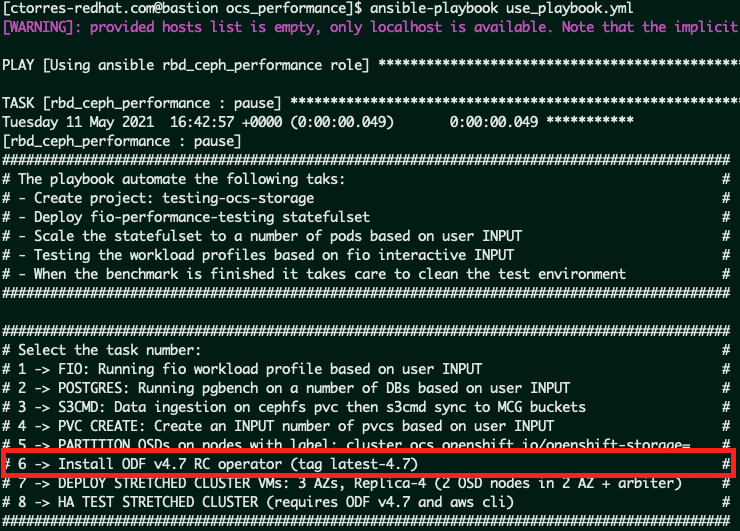
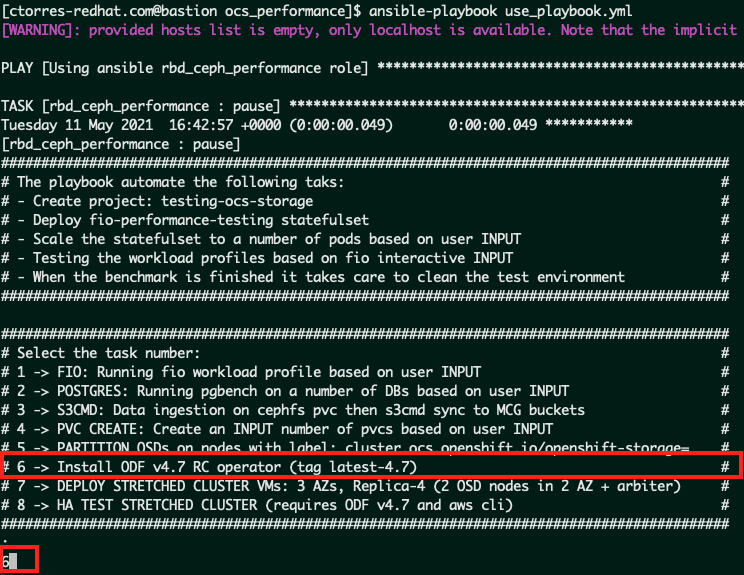
added odf v4.7 deployment

diff --git a/README.md b/README.md
@@ -52,8 +52,8 @@ watch oc get nodes
 - Install the ODF v4.7 Operator from template `roles/rbd_ceph_performance/templates/odfv47.yml`
 - If everything has been completed successfully you will see that the OCS Operator version 4.7 will be available 
 ![OCS v4.7](https://github.com/ctorres80/ocs_performance/blob/master/roles/rbd_ceph_performance/files/4.png)
-
-
+  
+  
 `# 7 -> DEPLOY STRETCHED CLUSTER VMs: 3 AZs, Replica-4 (2 OSD nodes in 2 AZ + arbiter)     #`
 ![OCS v4.7](https://github.com/ctorres80/ocs_performance/blob/master/roles/rbd_ceph_performance/files/5.png)
 Please check that you're in this condition before start:    
@@ -66,7 +66,6 @@ cluster-c1f4-kpw7v-worker-eu-west-1a   1         1         1       1           8
 cluster-c1f4-kpw7v-worker-eu-west-1b   1         1         1       1           8d
 cluster-c1f4-kpw7v-worker-eu-west-1c   1         1         1       1           8d
 ```
-Select the option #7  
 The tasks will take cluster configuration and automatically create the yaml for ocs machinesets. The final result will be 3 new machinesets:
 - all the vms are using instance type: m5.4xlarge
 - 2 vms will be create in AZ with label `datacenter1`
